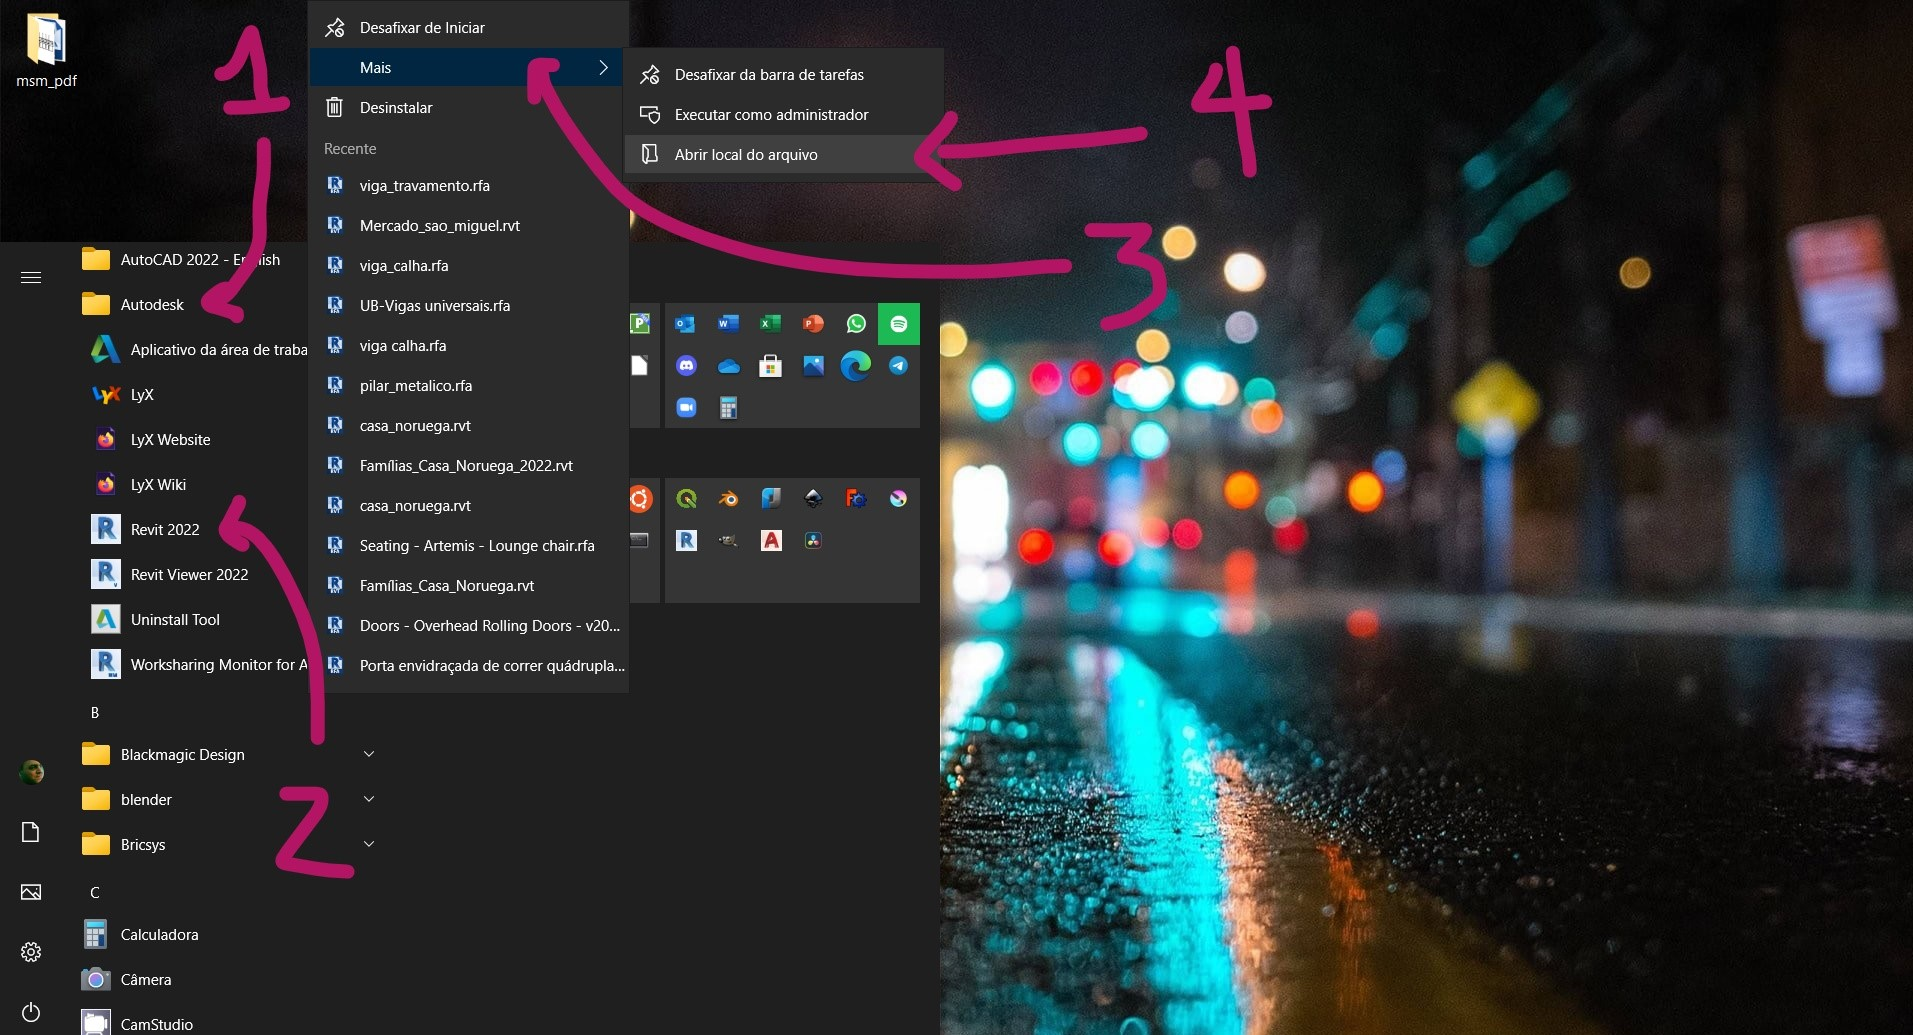
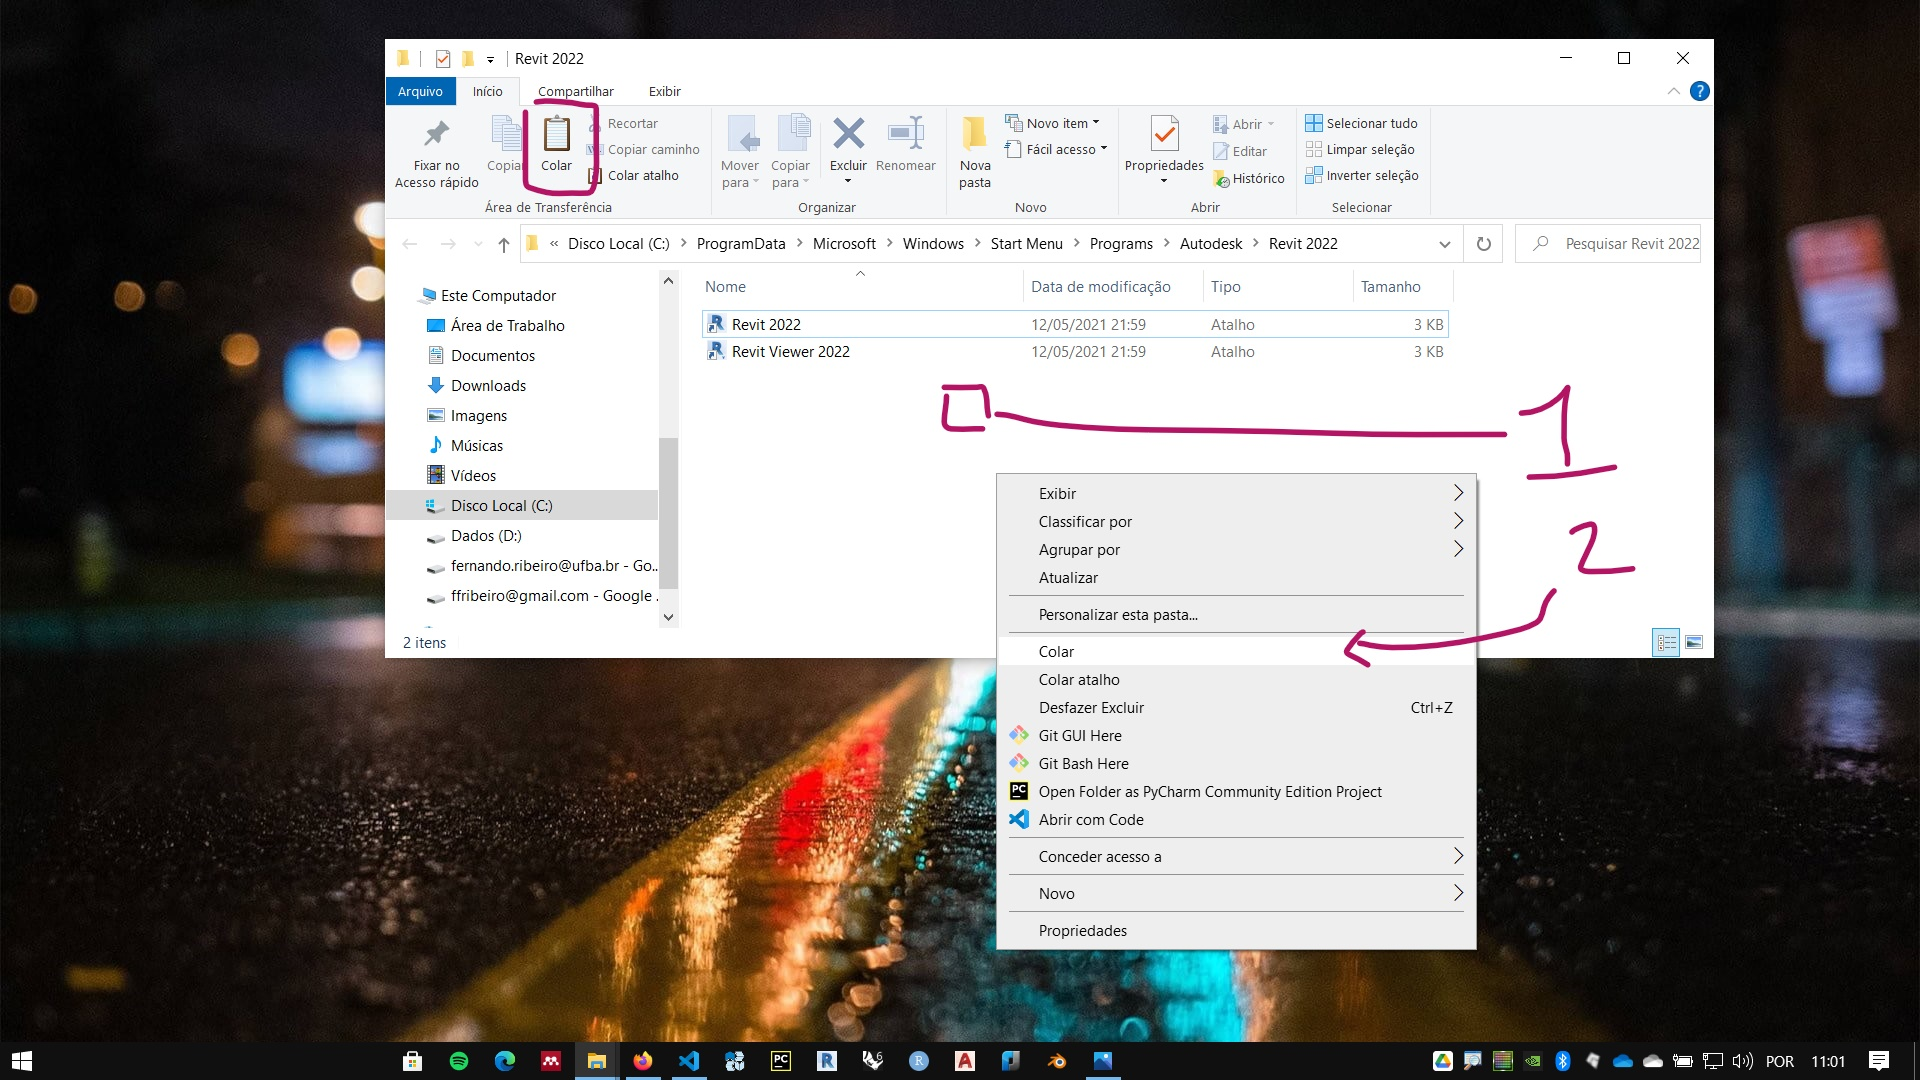
Deployed 0775ad6 with MkDocs version: 1.2.2

diff --git a/revit/init_revit/instala.html b/revit/init_revit/instala.html
@@ -806,6 +806,7 @@
 <p><a href="https://www.autodesk.com.br/education/edu-software/overview?sorting=featured&amp;filters=individual">Link Autodesk educacional Brasil</a></p>
 <p><a href="https://www.youtube.com/watch?v=NW71aaIatlc">Instalação Revit 2022 - Canal Layout Arquitetura</a></p>
 <h2 id="mudando-de-idioma">Mudando de idioma</h2>
+<h3 id="preparacao-e-organizacao">Preparação e organização</h3>
 <ol>
 <li>Abra o menu iniciar</li>
 <li>no menu iniciar, abra a pasta Autodesk</li>
@@ -813,14 +814,28 @@
 <li>escolha a opção mais</li>
 <li>clique para abrir o local do arquivo</li>
 </ol>
+<p>Essas ações vão abrir a pasta do Windows onde ficam os arquivos de atalho utilizados para abrir o Revit.</p>
 <p><img alt="idioma" src="idioma/idioma_01_LI.jpg" /></p>
+<p>Para manter atalhos para o Revit em mais de um idioma, é preciso criar uma cópia do arquivo de atalho. Neste exemplo estamos criando um atalho para o idioma inglês, em uma instalação inicial no idioma português.</p>
+<p>O arquivo de atalho pode ser copiado utilizando as teclas <code>ctrl + c</code>, e colado, utilizando as teclas <code>ctrl + v</code>.</p>
 <p><img alt="idioma" src="idioma/idioma_03_LI.jpg" /></p>
+<p>ou, clicando com o botão direito no nome do atalho e escolhendo a opção copiar. Em seguida, pode-se clicar na opção colar, no explorador sde arquivos, ou clicar com o botão direito no espaço vazio da tela do explorador de arquivos e escolher a opção colar.</p>
+<p><img alt="idioma" src="idioma/idioma_02_LI.jpg" /></p>
+<p>Uma mensagem do sistema pode aparecer, exigindo requisitos de administrador para executar a tarefa. Caso estas mensagens apareçam em alguma das etapas deste guia, clique em continuar.</p>
 <p><img alt="idioma" src="idioma/idioma_04_LI.jpg" /></p>
+<p>Para melhor organizar os atalhos, renomeie o arquivo copiado, colocando uma indicação do idioma que você quer configurar. Isso pode ser feito com a tecla <code>F2</code>, ou clicando com o botão direito no arquivo e escolhendo a opção renomear.</p>
 <p><img alt="idioma" src="idioma/idioma_05_LI.jpg" /></p>
+<p>Sugerimos o nome <code>Revit 2022-eng</code> para o atalho que estamos configurando para o idioma inglês.</p>
 <p><img alt="idioma" src="idioma/idioma_06_LI.jpg" /></p>
+<h3 id="configuracao-do-idioma">Configuração do idioma</h3>
+<p>As próximas etapas irão configurar propriamente o idioma do Revit.</p>
+<p>Clique no arquivo com o botao direito e escolha a opção <code>propriedades</code>.</p>
 <p><img alt="idioma" src="idioma/idioma_07_LI.jpg" /></p>
+<p>Na caixa de diálogo de propriedades, no campo Destino. note que, após a indicação do caminho para o arquivo executável, aparece a opção e idioma na forma <code>/language PTB</code>. Esse é o código para PorTuguês do Brasil. </p>
 <p><img alt="idioma" src="idioma/idioma_08_LI.jpg" /></p>
+<p>Troque para <code>/language ENU</code>, que indica o idioma Inglês nos estados Unidos. Aplique as alterações (2) ou clique no botão <strong>OK</strong>(3).</p>
 <p><img alt="idioma" src="idioma/idioma_09_LI.jpg" /></p>
+<p>Agora, no menu iniciar, na pasta da Autodesk, aparecem dois atalhos para iniciar o Revit, um em português, outro em inglês.</p>
                 
               
               
